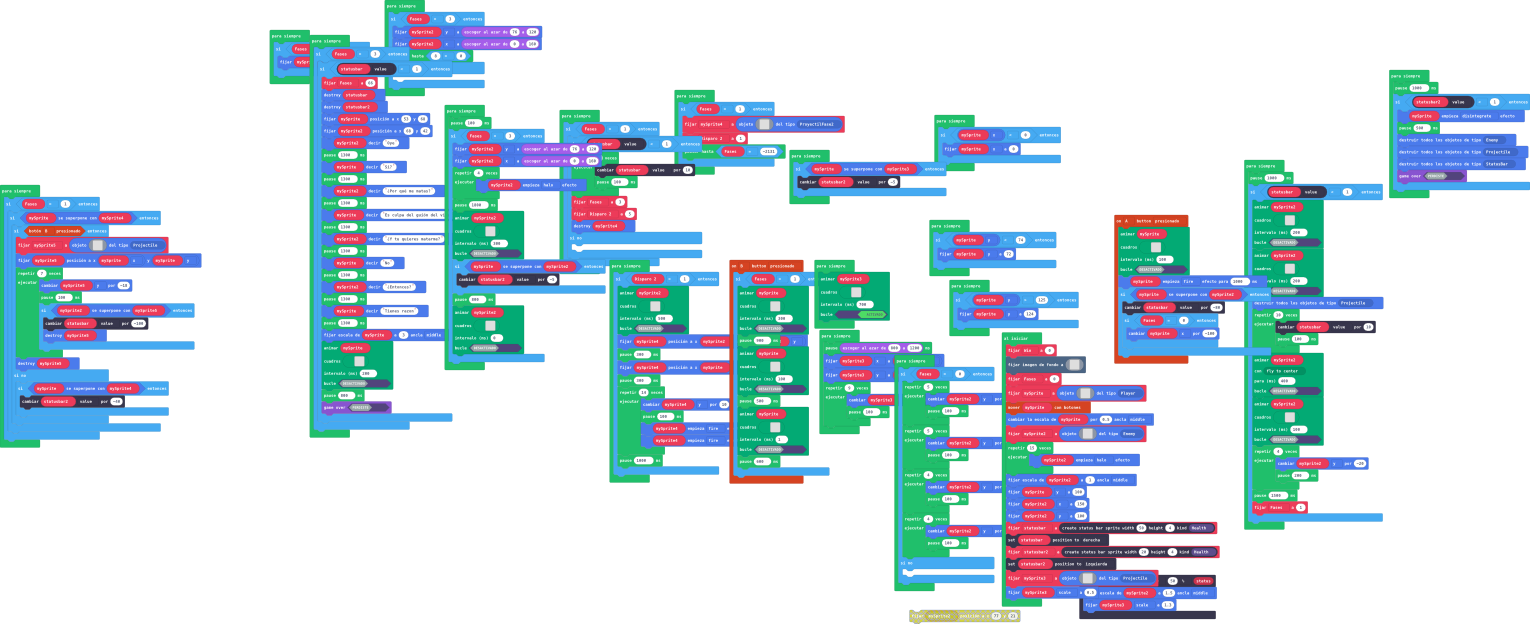
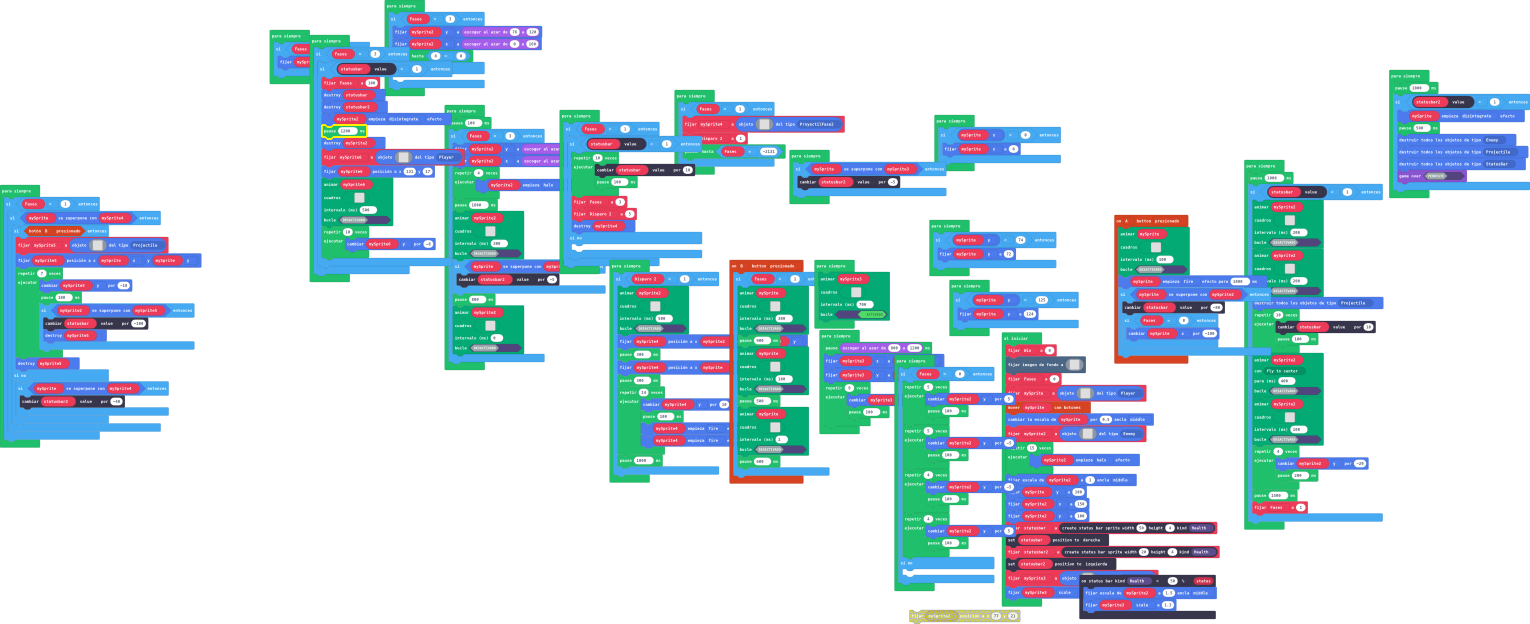
Volvemos a la carga y bacilamos a Pedro

diff --git a/main.ts b/main.ts
@@ -333,6 +333,7 @@ controller.B.onEvent(ControllerButtonEvent.Pressed, function () {
 let mySprite5: Sprite = null
 let Disparo_2 = 0
 let mySprite4: Sprite = null
+let mySprite6: Sprite = null
 let mySprite3: Sprite = null
 let statusbar: StatusBarSprite = null
 let mySprite2: Sprite = null
@@ -513,104 +514,125 @@ forever(function () {
 forever(function () {
     if (Fases == 3) {
         if (statusbar.value < 1) {
-            Fases = 66
+            Fases = 100
             sprites.destroy(statusbar)
             sprites.destroy(statusbar2)
-            mySprite.setPosition(53, 68)
-            mySprite2.setPosition(68, 42)
-            mySprite2.sayText("Oye")
-            pause(1300)
-            mySprite.sayText("Si?")
-            pause(1300)
-            mySprite2.sayText("¿Por qué me matas?")
-            pause(1300)
-            mySprite.sayText("Es culpa del guión del videojuego")
-            pause(1300)
-            mySprite2.sayText("¿Y tu quieres matarme?")
-            pause(1300)
-            mySprite.sayText("No")
-            pause(1300)
-            mySprite2.sayText("¿Entonces?")
-            pause(1300)
-            mySprite.sayText("Tienes razon")
-            pause(1300)
-            mySprite.setScale(3, ScaleAnchor.Middle)
+            mySprite2.startEffect(effects.disintegrate)
+            pause(1200)
+            sprites.destroy(mySprite2)
+            mySprite6 = sprites.create(img`
+                . . . . . . . . . . . . . . . . 
+                . . . . . . . . . . . . . . . . 
+                . . . b 5 5 b . . . . . . . . . 
+                . . . . b b b b b b . . . . . . 
+                . . . b 5 5 5 5 5 b b . . . . . 
+                . . b 5 5 5 5 5 5 5 b b b b b . 
+                . . b 5 5 5 5 5 5 5 5 b 5 d b . 
+                . . f 4 d 5 f 1 d 5 b 5 5 b . . 
+                . . c 4 4 5 f f 1 b 5 5 d b . . 
+                . b 4 4 4 4 b f d 5 5 5 b d b b 
+                b 4 4 4 4 4 4 5 b 5 5 d c d d b 
+                . b 5 5 5 5 5 5 5 b c c d d d c 
+                . b 5 5 5 5 5 5 5 d d d d d b c 
+                . b d 5 5 5 5 5 d d d d d d c . 
+                . . b b 5 5 5 d d d d d b c . . 
+                . . . b b c c c c c c c c . . . 
+                `, SpriteKind.Player)
+            mySprite6.setPosition(131, 17)
             animation.runImageAnimation(
-            mySprite,
+            mySprite6,
             [img`
                 . . . . . . . . . . . . . . . . 
-                . . . . . . . . . . . . . . . . 
-                . . . . . . . . . . . . . . . . 
-                . . . . . . . . . . . . . . . . 
-                . . . . . . . . . . . . . . . . 
-                . . . . . . . . . . . . . . . . 
-                . . . . . . . 4 4 . . . . . . . 
-                . . . . . . 4 5 5 4 . . . . . . 
-                . . . . . . 2 5 5 2 . . . . . . 
-                . . . . . . . 2 2 . . . . . . . 
-                . . . . . . . . . . . . . . . . 
-                . . . . . . . . . . . . . . . . 
-                . . . . . . . . . . . . . . . . 
-                . . . . . . . . . . . . . . . . 
-                . . . . . . . . . . . . . . . . 
-                . . . . . . . . . . . . . . . . 
-                `,img`
-                . . . . . . . . . . . . . . . . 
-                . . . . . . . . . . . . . . . . 
-                . . . . . . . . . . . . . . . . 
-                . . . . . . . . . . . . . . . . 
-                . . . . . . . . . . 4 . . . . . 
-                . . . . 2 . . . . 4 4 . . . . . 
-                . . . . 2 4 . . 4 5 4 . . . . . 
-                . . . . . 2 4 d 5 5 4 . . . . . 
-                . . . . . 2 5 5 5 5 4 . . . . . 
-                . . . . . . 2 5 5 5 5 4 . . . . 
-                . . . . . . 2 5 4 2 4 4 . . . . 
-                . . . . . . 4 4 . . 2 4 4 . . . 
-                . . . . . 4 4 . . . . . . . . . 
+                . . . . . . . 2 1 2 . . . . . . 
+                . . . . . . . 2 1 2 . . . . . . 
+                . . . . . . . 2 1 2 . . . . . . 
+                . . . . . . . 3 1 3 . . . . . . 
+                . . . . . . 2 3 1 3 2 . . . . . 
+                . . . . . . 2 1 1 1 2 . . . . . 
+                . . . . . . 2 1 1 1 3 . . . . . 
+                . . . . . . 3 1 1 1 3 . . . . . 
+                . . . . . . 3 1 1 1 3 . . . . . 
+                . . . . . . 3 1 1 1 3 . . . . . 
+                . . . . . . 2 3 1 3 2 . . . . . 
+                . . . . . . . 2 2 2 . . . . . . 
                 . . . . . . . . . . . . . . . . 
                 . . . . . . . . . . . . . . . . 
                 . . . . . . . . . . . . . . . . 
                 `,img`
-                . 3 . . . . . . . . . . . 4 . . 
-                . 3 3 . . . . . . . . . 4 4 . . 
-                . 3 d 3 . . 4 4 . . 4 4 d 4 . . 
-                . . 3 5 3 4 5 5 4 4 d d 4 4 . . 
-                . . 3 d 5 d 1 1 d 5 5 d 4 4 . . 
-                . . 4 5 5 1 1 1 1 5 1 1 5 4 . . 
-                . 4 5 5 5 5 1 1 5 1 1 1 d 4 4 . 
-                . 4 d 5 1 1 5 5 5 1 1 1 5 5 4 . 
-                . 4 4 5 1 1 5 5 5 5 5 d 5 5 4 . 
-                . . 4 3 d 5 5 5 d 5 5 d d d 4 . 
-                . 4 5 5 d 5 5 5 d d d 5 5 4 . . 
-                . 4 5 5 d 3 5 d d 3 d 5 5 4 . . 
-                . 4 4 d d 4 d d d 4 3 d d 4 . . 
-                . . 4 5 4 4 4 4 4 4 4 4 4 . . . 
-                . 4 5 4 . . 4 4 4 . . . 4 4 . . 
-                . 4 4 . . . . . . . . . . 4 4 . 
+                . . . . . . . . . . . . . . . . 
+                . . . . . . . . . . . . . . . . 
+                . . . . . . . . . . . . . . . . 
+                . . . . . . . . . . . . . . . . 
+                . . . . . . . . . . . . . . . . 
+                . . . . . . . . . . . . . . . . 
+                . . . . . . . . . . . . . . . . 
+                . . . . . . . . . . . . . . . . 
+                . . . . . . . . . . . . . . . . 
+                . . . . . . . . . . . . . . . . 
+                . . . . . 2 3 3 3 3 3 2 . . . . 
+                . . . . 3 1 1 1 1 1 1 1 3 . . . 
+                . . . . 1 1 1 1 1 1 1 1 1 . . . 
+                . . . 2 1 1 1 1 1 1 1 1 1 2 . . 
+                . . . 2 3 1 1 1 1 1 1 3 3 2 . . 
+                . . . . . . 2 2 2 2 2 . . . . . 
                 `,img`
                 . . . . . . . . . . . . . . . . 
                 . . . . . . . . . . . . . . . . 
-                . . . . . b b . b b b . . . . . 
-                . . . . b 1 1 b 1 1 1 b . . . . 
-                . . b b 3 1 1 d d 1 d d b b . . 
-                . b 1 1 d d b b b b b 1 1 b . . 
-                . b 1 1 1 b . . . . . b d d b . 
-                . . 3 d d b . . . . . b d 1 1 b 
-                . b 1 d 3 . . . . . . . b 1 1 b 
-                . b 1 1 b . . . . . . b b 1 d b 
-                . b 1 d b . . . . . . b d 3 d b 
-                . b b d d b . . . . b d d d b . 
-                . b d d d d b . b b 3 d d 3 b . 
-                . . b d d 3 3 b d 3 3 b b b . . 
-                . . . b b b d d d d d b . . . . 
-                . . . . . . b b b b b . . . . . 
+                . . . . . 4 4 4 4 4 . . . . . . 
+                . . . 4 4 4 5 5 5 d 4 4 4 4 . . 
+                . . 4 d 5 d 5 5 5 d d d 4 4 . . 
+                . . 4 5 5 1 1 1 d d 5 5 5 4 . . 
+                . 4 5 5 5 1 1 1 5 1 1 5 5 4 4 . 
+                . 4 d d 1 1 5 5 5 1 1 5 5 d 4 . 
+                . 4 5 5 1 1 5 1 1 5 5 d d d 4 . 
+                . 2 5 5 5 d 1 1 1 5 1 1 5 5 2 . 
+                . 2 d 5 5 d 1 1 1 5 1 1 5 5 2 . 
+                . . 2 4 d d 5 5 5 5 d d 5 4 . . 
+                . . . 2 2 4 d 5 5 d d 4 4 . . . 
+                . . 2 2 2 2 2 4 4 4 2 2 2 . . . 
+                . . . 2 2 4 4 4 4 4 4 2 2 . . . 
+                . . . . . 2 2 2 2 2 2 . . . . . 
+                `,img`
+                . . . . 2 2 2 2 2 2 2 2 . . . . 
+                . . . 2 4 4 4 5 5 4 4 4 2 2 2 . 
+                . 2 2 5 5 d 4 5 5 5 4 4 4 4 2 . 
+                . 2 4 5 5 5 5 d 5 5 5 4 5 4 2 2 
+                . 2 4 d d 5 5 5 5 5 5 d 4 4 4 2 
+                2 4 5 5 d 5 5 5 d d d 5 5 5 4 4 
+                2 4 5 5 4 4 4 d 5 5 d 5 5 5 4 4 
+                4 4 4 4 . . 2 4 5 5 . . 4 4 4 4 
+                . . b b b b 2 4 4 2 b b b b . . 
+                . b d d d d 2 4 4 2 d d d d b . 
+                b d d b b b 2 4 4 2 b b b d d b 
+                b d d b b b b b b b b b b d d b 
+                b b d 1 1 3 1 1 d 1 d 1 1 d b b 
+                . . b b d d 1 1 3 d d 1 b b . . 
+                . . 2 2 4 4 4 4 4 4 4 4 2 2 . . 
+                . . . 2 2 4 4 4 4 4 2 2 2 . . . 
+                `,img`
+                . . . . . . . . b b . . . . . . 
+                . . . . . . . . b b . . . . . . 
+                . . . b b b . . . . . . . . . . 
+                . . b d d b . . . . . . . b b . 
+                . b d d d b . . . . . . b d d b 
+                . b d d b . . . . b b . b d d b 
+                . b b b . . . . . b b . . b b . 
+                . . . . . . . . . . . . . . . . 
+                . . . . . . . . . . . . . . . . 
+                . . b b b d d d d d d b b b . . 
+                . b d c c c b b b b c c d d b . 
+                b d d c b . . . . . b c c d d b 
+                c d d b b . . . . . . b c d d c 
+                c b d d d b b . . . . b d d c c 
+                . c c b d d d d b . c c c c c c 
+                . . . c c c c c c . . . . . . . 
                 `],
-            200,
+            500,
             false
             )
-            pause(800)
-            game.gameOver(false)
+            for (let index = 0; index < 10; index++) {
+                mySprite6.y += -8
+            }
         }
     }
 })
